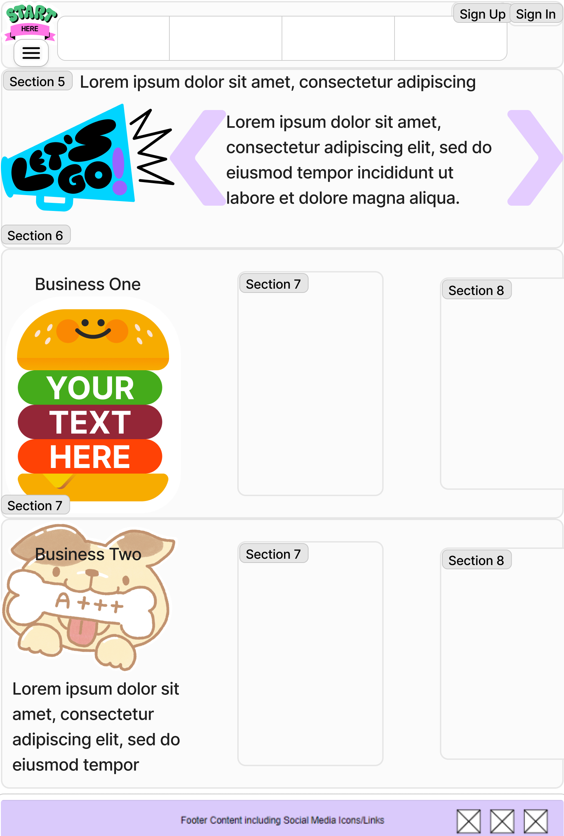
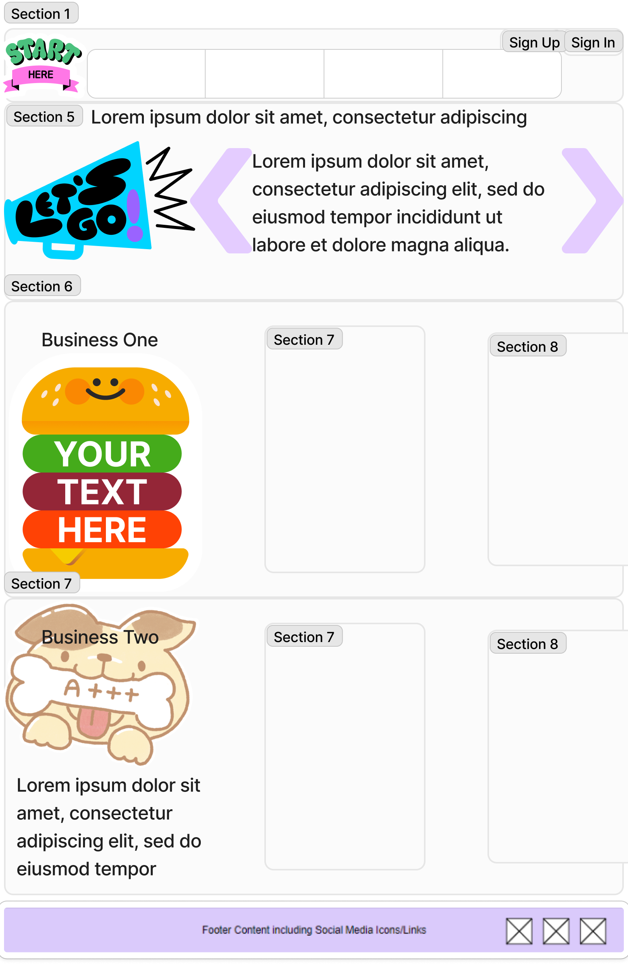
you never know...

diff --git a/chamber.html b/chamber.html
@@ -66,10 +66,10 @@
             <h2>Wireframe</h2>
             <p>Basic layout for the homepage in:</p>
             <ul>
-                <li>Mobile view</li>
-                <li>Desktop view</li>
+                <li>Mobile view<br><img src="images/wireframe_mobile.png" alt="Wireframe Sketch"></li>
+                <li>Desktop view<br><img src="images/wireframe.png" alt="Wireframe Sketch"></li>
             </ul>
-            <img src="images/wireframe.png" alt="Wireframe Sketch">
+            
         </section>
     </main>
 </body>
